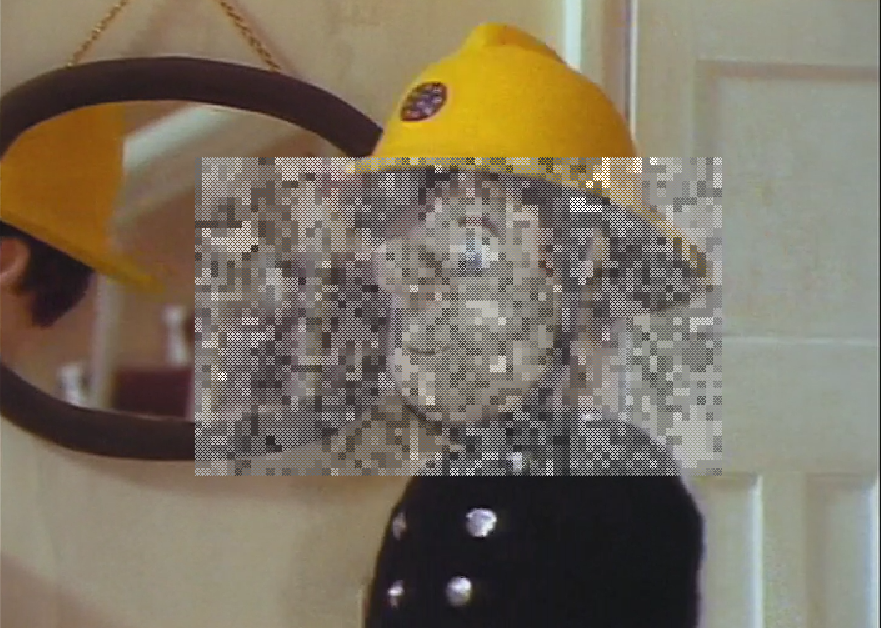
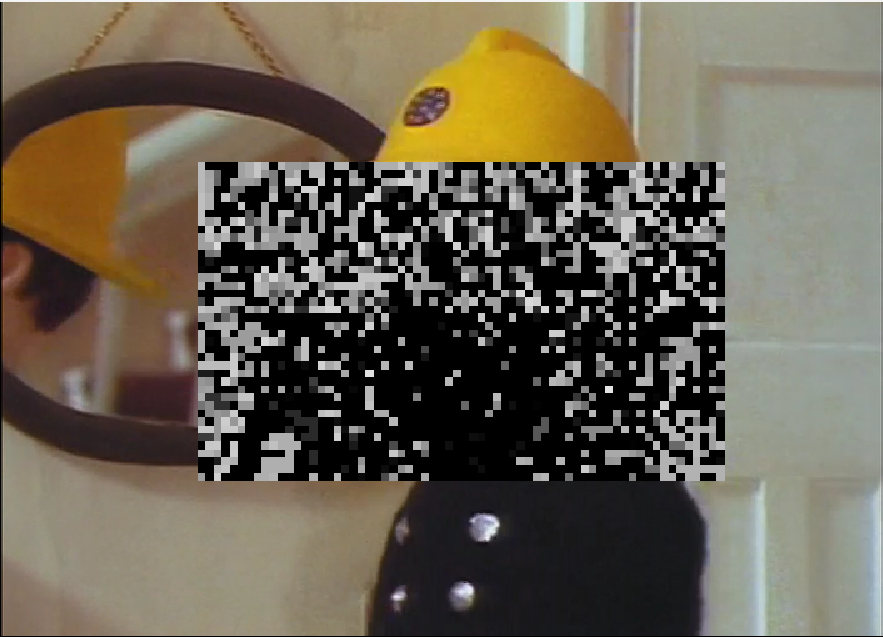
generate_contour

diff --git a/main.cpp b/main.cpp
@@ -541,7 +541,8 @@ int main(int argc, char *argv[])
 		{
 			QPainter painter(&image);
 			QBrush brush;
-			brush.setStyle(Qt::Dense3Pattern);
+            brush.setStyle(Qt::SolidPattern);
+			// brush.setStyle(Qt::Dense3Pattern);
 			auto drmul = listVarValuesDecompFudSlicedRepasPathSlice_u;
 			auto cap = (unsigned char)(ActiveUpdateParameters().mapCapacity);
 			auto& dr = *activeA.decomp;	
